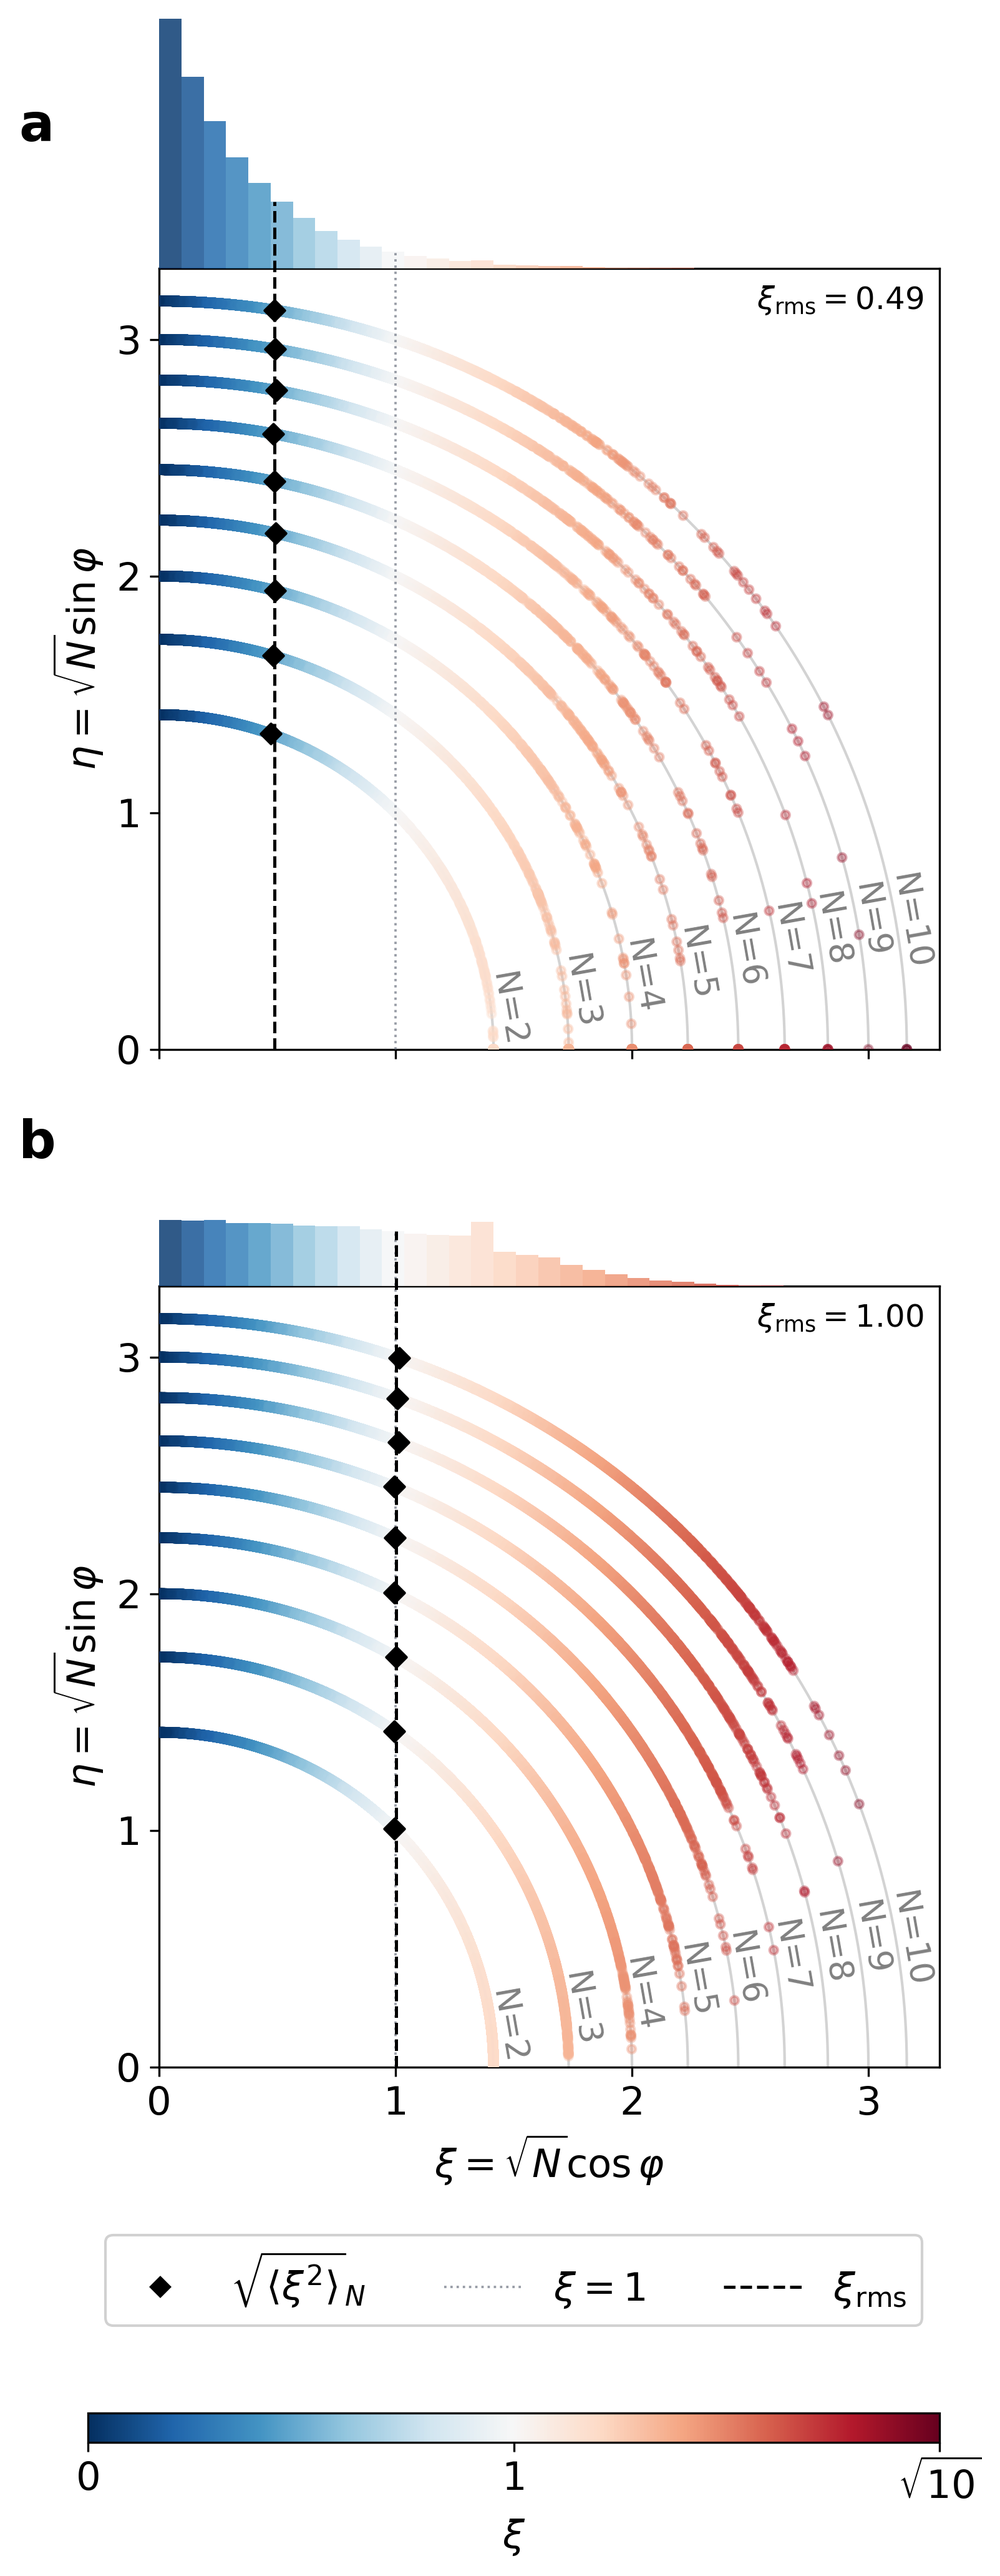
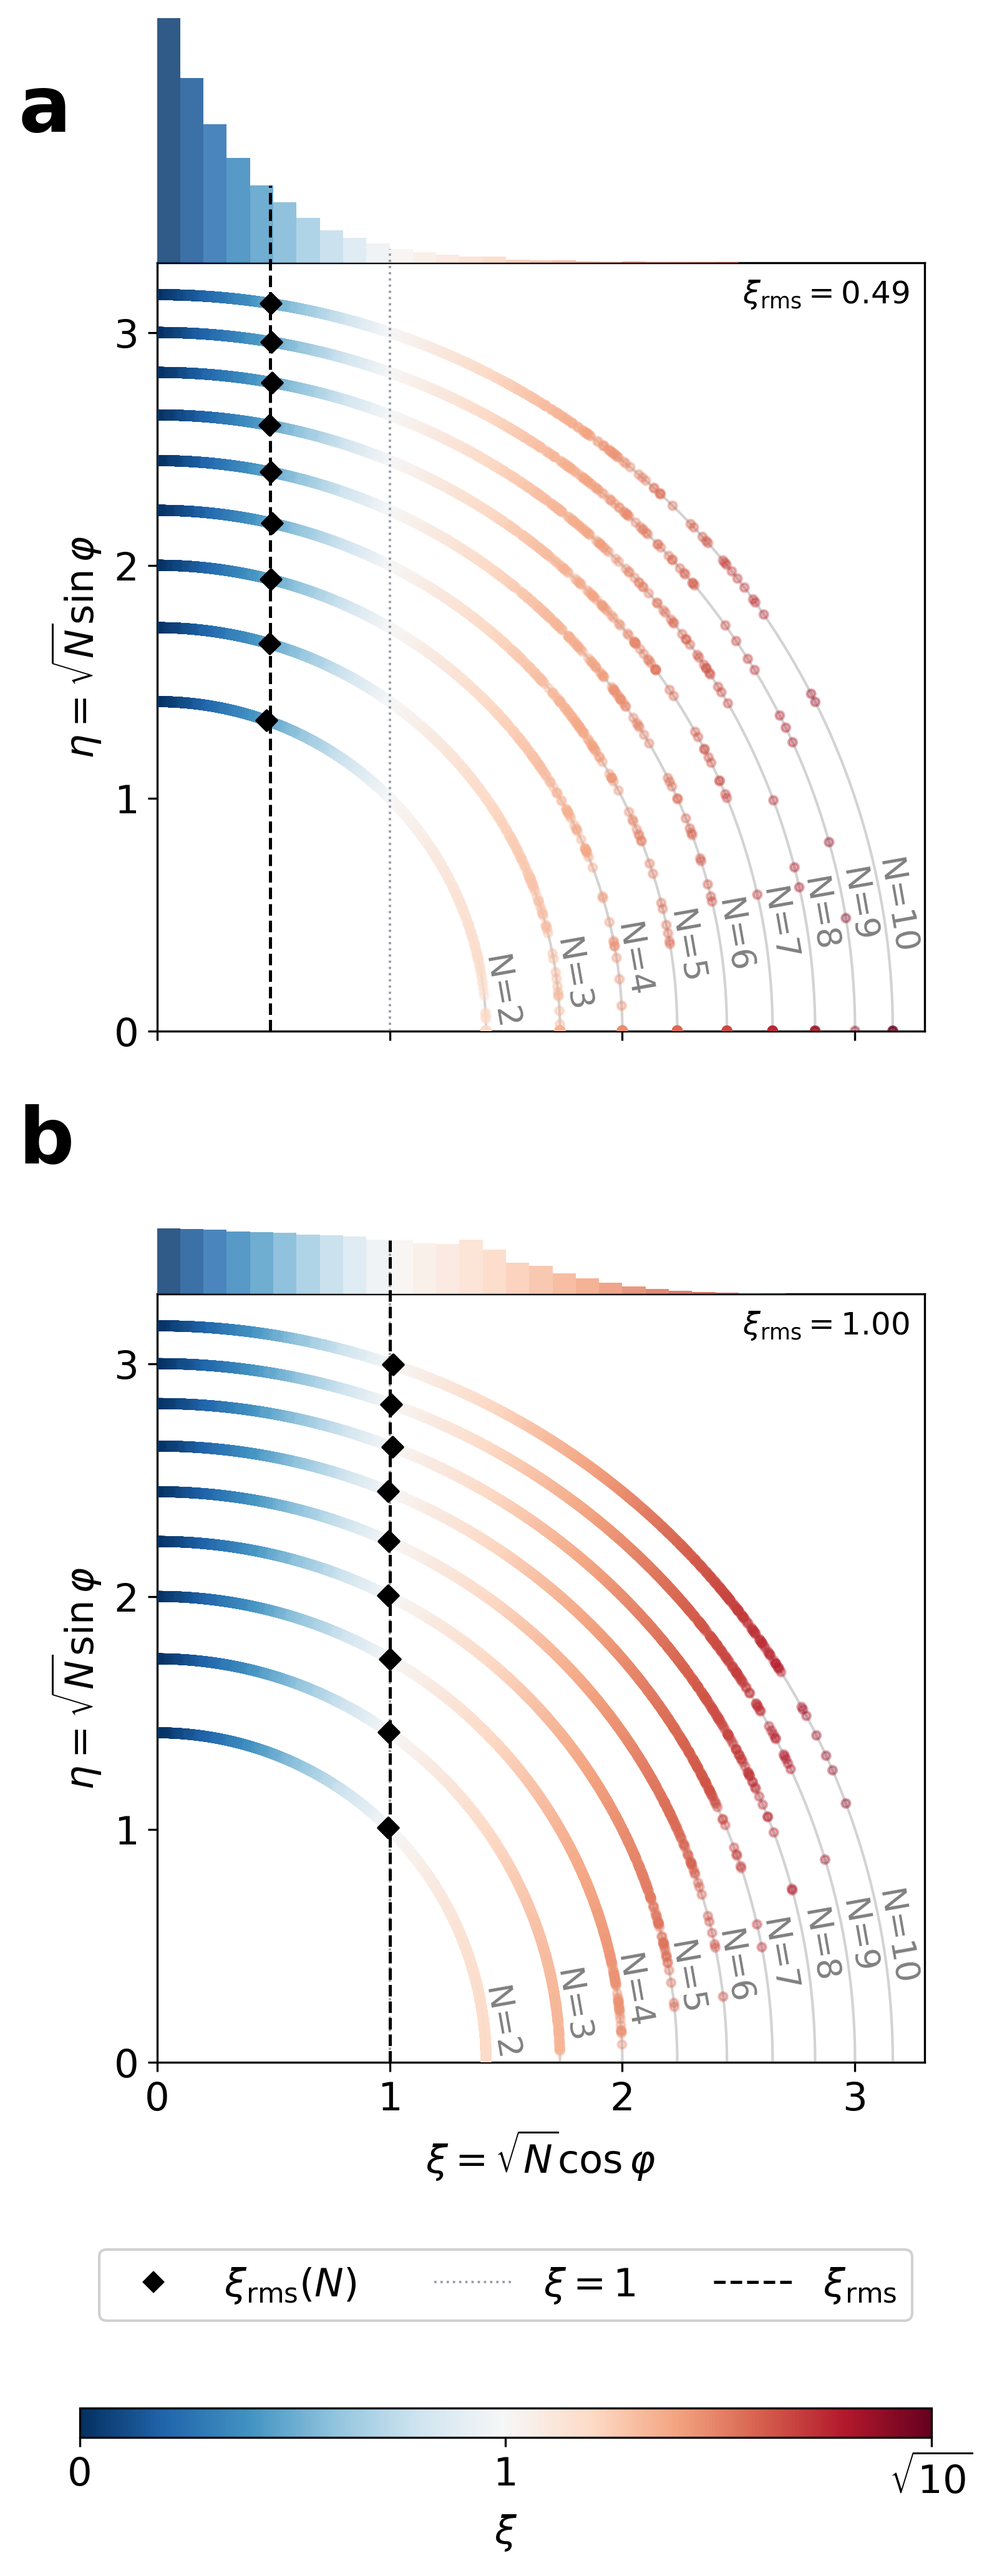
figures update v2 final

diff --git a/scripts/figures/fig4.py b/scripts/figures/fig4.py
@@ -33,15 +33,15 @@ plt.rcParams.update({'font.family': 'sans-serif', 'font.size': _FS,
 
 # ── Series definitions ────────────────────────────────────────────────────
 SERIES = {
-    "iiLoss":        dict(prefix="iiLoss_",        exclude="pcgrad|save|finetune",
-                          color="#7B9FFF", marker="o", ls="-",  lw=1.2, alpha=0.35),
-    "HdLoss":        dict(prefix="HdLoss_",         exclude="pcgrad|save|finetune",
-                          color="#FF85C8", marker="s", ls="-",  lw=1.8),
+    #"iiLoss":        dict(prefix="iiLoss_",        exclude="pcgrad|save|finetune",
+    #                      color="#E61D60", marker="o", ls="-",  lw=1.2, alpha=0.35),
+    #"HdLoss":        dict(prefix="HdLoss_",         exclude="pcgrad|save|finetune",
+    #                      color="#1EACE4", marker="s", ls="-",  lw=1.8, alpha = 0.35),
     "iiLoss+PCGrad": dict(prefix="iiLoss_pcgrad_", exclude=None,
-                          color="#4361EE", marker="^", ls="--", lw=1.8,
+                          color="#E61D60", marker="s", markersize = 14, ls="--", lw=1.8,
                           anchor="iiLoss_save_0.0"),
     "HdLoss+PCGrad": dict(prefix="HdLoss_pcgrad_", exclude=None,
-                          color="#E040AB", marker="D", ls="--", lw=1.8,
+                          color="#1EACE4", marker="o", markersize = 14, ls="--", lw=1.8,
                           anchor="HdLoss_0.0"),
 }
 
@@ -49,13 +49,11 @@ ALPHA_MAX = 0.8
 
 # ── Panels ────────────────────────────────────────────────────────────────
 METRICS = [
-    ("Hf_MAE", r"$\Delta H_\mathrm{f}$ MAE / eV atom$^{-1}$"),
-    ("Hd_MAE", r"$\Delta H_\mathrm{d}$ MAE / eV atom$^{-1}$"),
+    ("Hf_MAE", r"$\mathrm{MAE}\left(\Delta_\mathrm{f}H\right)$ / eV atom$^{-1}$"),
+    ("Hd_MAE", r"$\mathrm{MAE}\left(\Delta_\mathrm{d}H\right)$ / eV atom$^{-1}$"),
     ("F1",     r"$F_1$"),
     ("rms_xi", r"$\xi_\mathrm{rms}$"),
 ]
-
-MAE_COLS = {"Hf_MAE", "Hd_MAE"}   # fixed ylim + overflow markers
 
 # lambda* markers: col -> "min" (lower-is-better) or "max" (higher-is-better)
 OPTIMA_SERIES = ["iiLoss+PCGrad", "HdLoss+PCGrad"]
@@ -124,9 +122,11 @@ def main():
                     markersize=5, markeredgecolor="white",
                     markeredgewidth=0.5, zorder=3, label=label,
                     alpha=alpha, clip_on=True)
+            ax.axvline(0.3, color='gray', ls='--', lw=0.8, alpha=0.4, label = r"$\lambda=0.3$")
+            
 
             # Overflow triangles only for MAE panels, non-faded series
-            if col in MAE_COLS and alpha >= 1.0:
+            if col in ('Hf_MAE', 'Hd_MAE') and alpha >= 1.0:
                 ylim_max = 0.265
                 over = sub[sub[col] > ylim_max]
                 if not over.empty:
@@ -144,22 +144,28 @@ def main():
 
         ax.set_ylabel(ylabel, fontsize=_FS)
         ax.tick_params(labelsize=_FS)
-        ax.xaxis.set_minor_locator(ticker.MultipleLocator(0.1))
+        ax.xaxis.set_major_locator(ticker.MultipleLocator(0.1))
         ax.yaxis.set_major_formatter(ticker.FormatStrFormatter('%.2f'))
 
-        if col in MAE_COLS:
-            ax.set_yticks([0.10, 0.15, 0.20, 0.25])
-            ax.set_ylim(0.087, 0.265)
-            ax.yaxis.set_minor_locator(ticker.MultipleLocator(0.01))
+        if col == 'Hf_MAE':
+            ax.set_ylim(0.097, 0.131)
+            ax.yaxis.set_major_locator(ticker.MultipleLocator(0.01))
+            ax.yaxis.set_minor_locator(ticker.MultipleLocator(0.002))
+        elif col == 'Hd_MAE':
+            ax.set_ylim(0.109, 0.137)
+            ax.yaxis.set_major_locator(ticker.MultipleLocator(0.01))
+            ax.yaxis.set_minor_locator(ticker.MultipleLocator(0.002))
         elif col == "F1":
-            ax.yaxis.set_major_locator(ticker.MultipleLocator(0.02))
-            ax.yaxis.set_minor_locator(ticker.MultipleLocator(0.005))
-            ax.margins(y=0.08)
+            ax.yaxis.set_major_locator(ticker.MultipleLocator(0.01))
+            ax.yaxis.set_minor_locator(ticker.MultipleLocator(0.002))
+            #ax.margins(y=0.08)
+            ax.set_ylim(0.509,0.541)
         elif col == "rms_xi":
-            ax.yaxis.set_major_locator(ticker.MultipleLocator(0.1))
-            ax.yaxis.set_minor_locator(ticker.MultipleLocator(0.02))
-            ax.margins(y=0.08)
-            ax.axhline(1.0, color='#6B7280', lw=0.9, ls='--', alpha=0.6,
+            ax.yaxis.set_major_locator(ticker.MultipleLocator(0.05))
+            ax.yaxis.set_minor_locator(ticker.MultipleLocator(0.01))
+            #ax.margins(y=0.08)
+            ax.set_ylim(0.895, 1.115)
+            ax.axhline(1.0, color='#6B7280', lw=0.9, ls=':', alpha=0.6,
                        zorder=1, label=r'i.i.d. ($\xi_\mathrm{rms}=1$)')
 
         ax.grid(True, which="major", lw=0.4, alpha=0.5)
@@ -169,9 +175,9 @@ def main():
         baseline_row = df[df["model"] == "iiLoss_0.0"]
         if not baseline_row.empty:
             bval = baseline_row[col].values[0]
-            ax.axhline(bval, color="grey", lw=1.0, ls=":", alpha=0.8, zorder=1,
+            ax.axhline(bval, color="grey", lw=1.0, ls="-", alpha=0.8, zorder=1,
                        label=r"baseline ($\lambda\!=\!0$)")
-
+        """
         # lambda* markers
         if col in OPTIMA_PANELS and col in series_data:
             direction = OPTIMA_PANELS[col]
@@ -192,7 +198,7 @@ def main():
                             xy=(xv, yv), xytext=(7, -12),
                             textcoords="offset points",
                             fontsize=_FS_SM, color=color, fontweight="bold")
-
+        """
     # ── Legend ────────────────────────────────────────────────────────────
     seen = {}
     for ax in axes:
@@ -202,14 +208,12 @@ def main():
 
     blank = Patch(visible=False)
     LEGEND_ORDER = [
-        "iiLoss", "iiLoss+PCGrad","HdLoss", "HdLoss+PCGrad",r"baseline ($\lambda\!=\!0$)"
+        "iiLoss", "iiLoss+PCGrad","HdLoss", "HdLoss+PCGrad", r"$\lambda=0.3$", r"baseline ($\lambda\!=\!0$)"
     ]
     ordered    = [seen[l] for l in LEGEND_ORDER if l in seen]
-    labels_leg = [l       for l in LEGEND_ORDER if l in seen]
-    ordered.insert(4, blank)
-    labels_leg.insert(4, "")
+    labels_leg = [l.split('+')[0]       for l in LEGEND_ORDER if l in seen]
     fig.legend(ordered, labels_leg,
-               loc="lower center", ncol=3,
+               loc="lower center", ncol=2,
                fontsize=_FS_LEG, framealpha=0.9,
                bbox_to_anchor=(0.5, -0.08))
 

diff --git a/scripts/figures/fig3.py b/scripts/figures/fig3.py
@@ -26,7 +26,7 @@ _FIG_W         = 14.0          # rendering width for font scaling
 _FS    = round(7.0 * _FIG_W / _JOURNAL_COL_W)   # → 13 pt  (body / axis labels)
 _FS_SM = round(6.0 * _FIG_W / _JOURNAL_COL_W)   # → 11 pt  (minor annotations)
 _FS_LEG, _FS_CB = _FS, _FS
-_FS_PANEL = 20   # panel labels a/b/c — fixed across all figures
+_FS_PANEL = 30   # panel labels a/b/c — fixed across all figures
 plt.rcParams.update({
     'font.family': 'sans-serif',
     'font.size':   _FS,
@@ -74,7 +74,7 @@ def _unit(U, V):
     return U / mag, V / mag
 
 # ── Figure ────────────────────────────────────────────────────────────────────
-fig = plt.figure(figsize=(6.5, 14))
+fig = plt.figure(figsize=(6.5, 13))
 gs  = gridspec.GridSpec(2, 1,
                         height_ratios=[1, 1],
                         hspace=0.25,
@@ -119,7 +119,7 @@ for ax, U, V, xs, ys, panel_lbl, title_str, eq_str in panels:
     # ── Labels / equations ────────────────────────────────────────────────────
     ax.text(-0.12, 1.05, panel_lbl, transform=ax.transAxes,
             fontsize=_FS_PANEL, fontweight='bold', va='bottom')
-    ax.set_title(title_str, fontsize=_FS, pad=7)
+    #ax.set_title(title_str, fontsize=_FS, pad=7)
 
     ax.text(0.97, 0.03, eq_str,
             transform=ax.transAxes,

diff --git a/scripts/figures/fig1.py b/scripts/figures/fig1.py
@@ -39,7 +39,7 @@ _PT_BODY, _PT_SM = 9.0, 7.5   # target print sizes (pt)
 _FS    = round(_PT_BODY * _FIG_W / _JOURNAL_COL_W)   # → 16 pt
 _FS_SM = round(_PT_SM   * _FIG_W / _JOURNAL_COL_W)   # → 13 pt
 _FS_LEG, _FS_CB = _FS, _FS
-_FS_PANEL = 20   # panel labels a/b/c — fixed across all figures
+_FS_PANEL = 30   # panel labels a/b/c — fixed across all figures
 plt.rcParams.update({'font.family': 'sans-serif', 'font.size': _FS,
                      'axes.linewidth': 0.8})
 
@@ -103,7 +103,7 @@ def draw_panel(ax, key):
         ax.scatter([m], [md], color='black', s=30, marker='D', zorder=5)
 
     # Histogram bars — bin the ~10⁵ sampled points directly
-    edges = np.linspace(0, CIRC_TOP, 36)
+    edges = np.arange(0, CIRC_TOP + 0.1, 0.1)
     counts, _ = np.histogram(all_xi, bins=edges, density=True)
 
     for left, right, h in zip(edges[:-1], edges[1:], counts):
@@ -154,7 +154,7 @@ ax_a.tick_params(labelbottom=False)
 # Shared legend — diamond + ξ=1 line, shared across both panels
 _leg_handles = [
     mlines.Line2D([], [], color='black', marker='D', markersize=5,
-                  linestyle='None', label=r'$\sqrt{\langle\xi^2\rangle}_N$'),
+                  linestyle='None', label=r'$\xi_\mathrm{rms}(N)$'),
     mlines.Line2D([], [], color=COL_REF, lw=0.9, ls=':', alpha=0.7,
                   label=r'$\xi = 1$'),
     mlines.Line2D([], [], color='black', lw=1.2, ls='--',

diff --git a/scripts/figures/fig2.py b/scripts/figures/fig2.py
@@ -78,7 +78,7 @@ def plot(by_model: dict, models: list, out_path: str):
     hist_max = 0.0
     for m in models_present:
         xis = np.array([r["xi_err"] for r in by_model[m]])
-        counts, _ = np.histogram(xis, bins=35, range=(0, lim), density=True)
+        counts, _ = np.histogram(xis, bins=np.arange(0, lim + 0.1, 0.1), density=True)
         if counts.size:
             hist_max = max(hist_max, float(counts.max()))
     HIST_SCALE = HIST_H / hist_max if hist_max > 0 else 1.0
@@ -125,7 +125,7 @@ def plot(by_model: dict, models: list, out_path: str):
 
         # Histogram above frame
         rms_xi = math.sqrt(float(np.mean(xis ** 2)))
-        counts, edges = np.histogram(xis, bins=35, range=(0, lim), density=True)
+        counts, edges = np.histogram(xis, bins=np.arange(0, lim + 0.1, 0.1), density=True)
         for left, right, h in zip(edges[:-1], edges[1:], counts):
             ax.bar(left, h * HIST_SCALE, width=right - left, bottom=lim,
                    color=cmap_obj(norm((left + right) / 2)),
